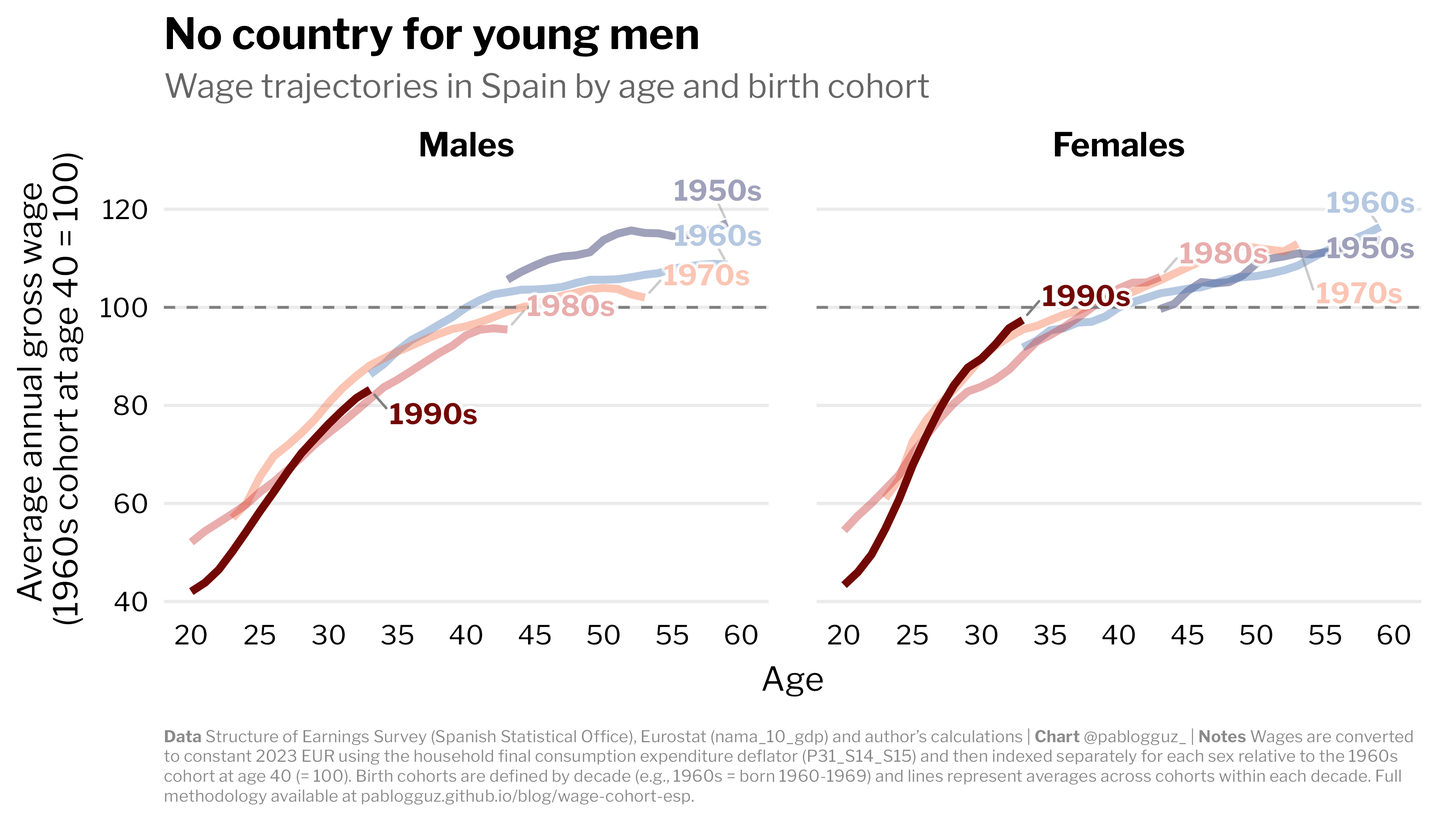
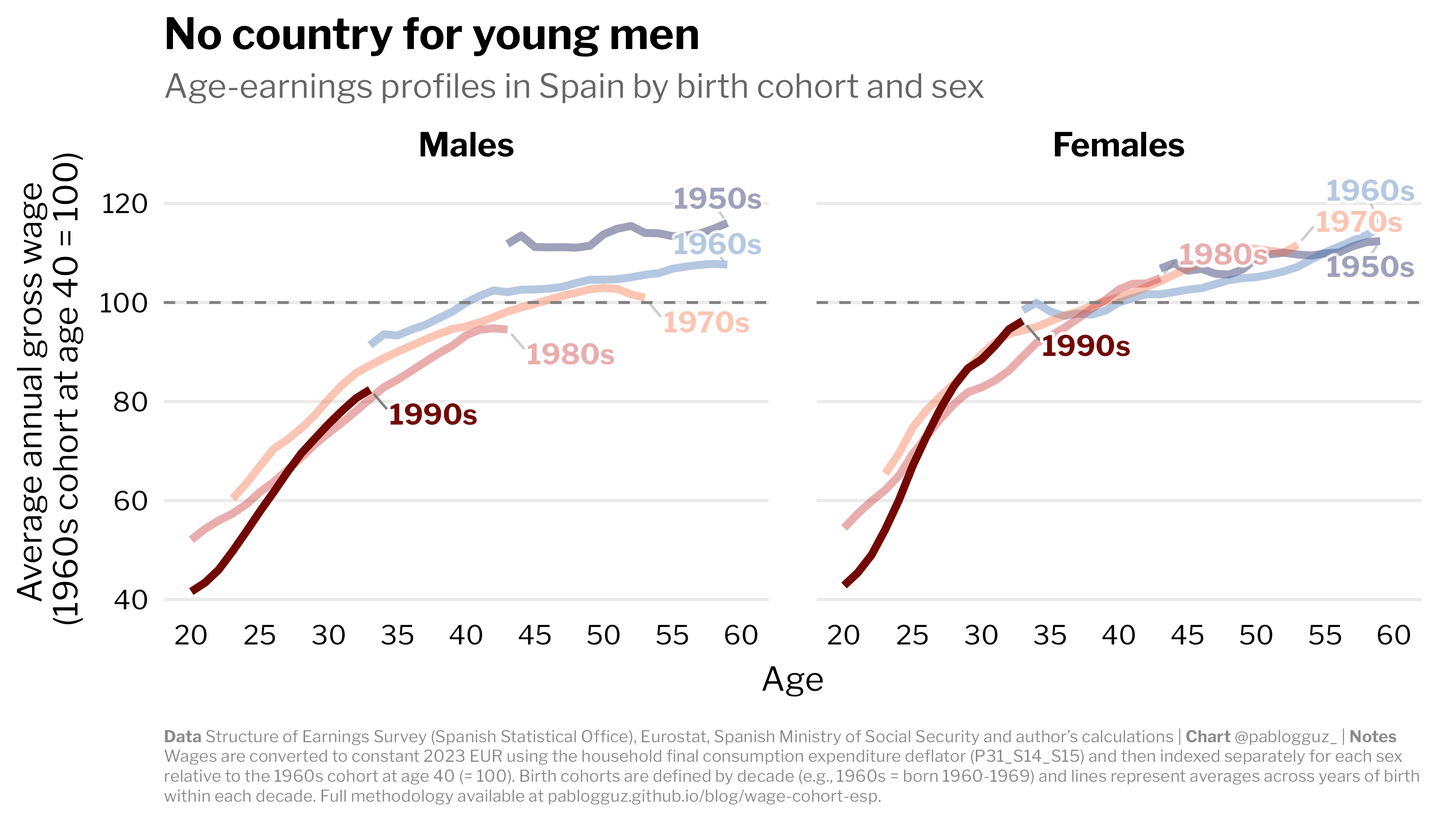
no country for young men

diff --git a/content/blog/wage-cohort-esp.md b/content/blog/wage-cohort-esp.md
@@ -1,7 +1,7 @@
 +++
 title = "No country for young men: age-earnings profiles by birth cohort and sex in Spain"
 date = 2025-10-09
-draft = true
+draft = false
 
 [taxonomies]
 tags = ["wages", "spain", "cohorts", "labour market"]
@@ -18,16 +18,16 @@ outdate_alert_days = 120
 display_tags = true
 truncate_summary = false
 featured = false
-cover_image = "https://pablogguz.github.io/img/nocountry.png"
-reading_time = 10
+cover_image = "https://pablogguz.github.io/img/nocountry_v2.png"
+reading_time = 8
 +++
 
-<img src="/img/nocountry.png" width="500"/>
+<img src="/img/nocountry_v2.png" width="500"/>
 <br>
 
 # Introduction
 
-Spain's younger generations are not enjoying higher wages than their parents did at the same age. In fact, **each successive male cohort since the 1960s has fared progressively worse**. Men born in the 1990s, now in their mid-30s, earn roughly 7% less in real terms than men born in the 1970s earned at comparable ages.
+Spain's younger generations are not enjoying higher wages than their parents did at the same age. In fact, **each successive male cohort since the 1960s appears to do progressively worse**: men born in the 1990s, now in their mid-30s, earn about 9% less in real terms than men born in the 1970s at comparable ages.
 
 **Women's wage trajectories tell a different story**: recent cohorts have achieved parity with earlier generations and appear on track to surpass them. While matching or slightly exceeding wage levels from decades ago is hardly cause for celebration, it stands in marked contrast to the persistent declines young men have experienced.
 
@@ -37,41 +37,41 @@ This post documents an attempt to construct age-earnings profiles by birth cohor
 
 The main analysis draws on the following datasets, all publicly available:
 
-**[Structure of Earnings Survey](https://www.ine.es/jaxiT3/Tabla.htm?t=28189&L=0)**: Estimates of average gross wages by age group and sex. My analysis includes the annual surveys from 2004-07 and 2008-23, as well as the quadrennial survey from 2002. Ages are reported in five-year bands (20-24, 25-29, ..., 55-59). These surveys are conducted by Spain's National Statistical Office (hereafter INE) and cover salaried employees in industry, construction, and services (typically NACE Rev. 2 sections B to S), excluding agriculture, fishing, domestic services, self-employed workers, and some Public Administration positions. My analysis includes the annual surveys from 2004-07 and 2008-23, as well as the quadrennial survey from 2002. Ages are reported in five-year bands (20-24, 25-29, ..., 55-59).
+**[Structure of Earnings Survey](https://www.ine.es/jaxiT3/Tabla.htm?t=28189&L=0)**: Estimates of average gross wages by age group and sex. My analysis includes the annual surveys from 2004-07 and 2008-23, as well as the quadrennial survey from 2002. Ages are reported in five-year bands (20-24, 25-29, ..., 55-59). These surveys are conducted by Spain's National Statistical Office (_INE_) and cover salaried employees in industry, construction, and services (typically NACE Rev. 2 sections B to S), excluding agriculture, domestic services, self-employed workers, and some public administration positions.
 
 **[Eurostat National Accounts (nama_10_gdp)](https://ec.europa.eu/eurostat/databrowser//product/view/NAMA_10_GDP)**: I use the household final consumption expenditure deflator (P31_S14_S15) to convert all wages to constant 2023 EUR.
 
 **[Labour Force Survey (EPA)](https://www.ine.es/dyngs/INEbase/operacion.htm?c=Estadistica_C&cid=1254736176918&menu=resultados&idp=1254735976595#_tabs-1254736195129)**: I use data on sectoral employment shares to account for some methodological changes in the Structure of Earnings Survey. More on this below.
 
-**[Eurostat Structural Business Statistics (sbs_na_ind_r2)](https://ec.europa.eu/eurostat/databrowser/view/sbs_sc_sca_r2/default/table?lang=en)**: I use data on employment by firm size to account for some methodological changes in the Structure of Earnings Survey. More on this below.
+**[_Estadística de Empresas Inscritas en la Seguridad Social_ (Spanish Ministry of Social Security)](https://www.mites.gob.es/es/estadisticas/mercado_trabajo/EMP/welcome.htm)**: I use data on employment counts by sector and firm size to account for some methodological changes in the Structure of Earnings Survey. More on this below.
 
 # Methodology
 
-Data on wages is made available for five-year age bands, so the first step is to expand these five-year averags into single-year estimates while preserving the original means within each band. One way to do this is through a **Lexis expansion**. 
+Data on wages is made available for five-year age bands, so the first step is to expand these five-year averages into single-year estimates while preserving the original means within each band. One way to do this is through a **Lexis expansion**. 
 
-## A lexis expansion with monotonic splines
+## A Lexis expansion with monotonic splines
 
 In demography, a **Lexis diagram** is a graphical tool that represents demographic data across two dimensions: age (on the vertical axis) and time (on the horizontal axis). Diagonal lines in this diagram represent birth cohorts (i.e., groups of people born in the same year) as they age over time.
 
-A **Lexis expansion** refers to the process of disaggregating data from coarser categories (like five-year age bands) into finer single-year units while maintaining consistency with the original aggregated data. The name comes from the fact that you're "expanding" the cells of a Lexis diagram from large blocks into smaller, more granular cells.
+A **Lexis expansion** refers to the process of disaggregating data from coarser categories (like five-year age bands) into finer single-year units while maintaining consistency with the original aggregated data. The name comes from the fact that you are "expanding" the cells of a Lexis diagram from large blocks into smaller, more granular cells.
 
 Specifically, for each calendar year $t$ and sex $s$, I proceed as follows:
 
-1. **Interpolate in log wages.** Take the eight five-year bands $b\in \\{ \text{20–24},\dots,\text{55–59} \\}$ and place them at their midpoints $m_b\in\\{22,27,\dots,57\\}$. Fit a monotone cubic Hermite spline to $\log \bar w_{y,b,s}$ over $m_b$, and predict $\tilde w_{y,a,s}$ for every integer age $a\in[20,59]$. This is a shape-preserving interpolator: where the observed mid-points are monotone, it prevents overshooting and spurious oscillations; where they are not monotone, it behaves like a constrained cubic Hermite. The reason for using a monotone Hermite spline instead of a regular cubic spline is that the latter can oscillate and overshoot band means between knots, while the former is explicitly designed to avoid those artifacts while still giving a smooth profile.
+1. **Interpolate in log wages.** I take the eight five-year bands $b\in \\{ \text{20–24},\dots,\text{55–59} \\}$ and place them at their midpoints $m_b\in\\{22,27,\dots,57\\}$. Then, I fit a [monotone cubic Hermite spline](https://en.wikipedia.org/wiki/Monotone_cubic_interpolation) to $\log \bar w_{t,b,s}$ over $m_b$, and predict $\tilde w_{t,a,s}$ for every integer age $a\in[20,59]$. This is a shape-preserving interpolator: where the observed mid-points are monotone, it prevents overshooting and spurious oscillations; where they are not monotone, it behaves like a constrained cubic Hermite. The reason for using a monotone Hermite spline instead of a regular cubic spline is that the latter can oscillate and overshoot band means between knots, while the former is explicitly designed to avoid those artifacts while still yielding a smooth profile.
 
 2. **Ratio-adjust within each band to preserve published means.** For each band $b$ with age set $A_b$ (e.g., $A_{\text{20–24}}={20,21...,24}$), compute
 
    $$
-   r_{y,b,s} = \frac{\bar w_{y,b,s}}{\frac{1}{|A_b|}\sum_{a\in A_b}\tilde w_{y,a,s}}.
+   r_{t,b,s} = \frac{\bar w_{t,b,s}}{\frac{1}{|A_b|}\sum_{a\in A_b}\tilde w_{t,a,s}}.
    $$
 
 Rescale ages inside the band:
    $$
-   \hat w_{y,a,s} = r_{y,b,s}\times \tilde w_{y,a,s}\quad\text{for } a\in A_b.
+   \hat w_{t,a,s} = r_{t,b,s}\times \tilde w_{t,a,s}\quad\text{for } a\in A_b.
    $$
    By construction,
    $$
-   \frac{1}{|A_b|}\sum_{a\in A_b}\hat w_{y,a,s} = \bar w_{y,b,s}
+   \frac{1}{|A_b|}\sum_{a\in A_b}\hat w_{t,a,s} = \bar w_{t,b,s}
    $$
    for every band $b$. This step “rakes” the interpolated curve so that the **band averages match the official INE means exactly**.
 
@@ -79,14 +79,14 @@ Simple as that. Or is it?
 
 ## Not so fast...
 
-When working with survey data spanning many years, one must be cautious about potential changes in the data collection process and survey design. Such changes can lead to structural breaks in the series and introduce artifacts that may lead to misleading conclusions if not properly addressed. 
+When working with survey data spanning many years, one must be cautious about potential changes in the data collection process and survey design. Such changes can lead to structural breaks in the series, making the data not comparable over time.
 
 The Structure of Earnings Surveys in Spain have undergone several methodological changes over the years:
 
-1. Surveys before 2008 **excluded the Public Administration sector** (NACE rev. 2 section O / NACE rev. 1 section L). This sector tends to have a higher proportion of older workers and has higher average wages than the restate sector. 
-2. Surveys before 2004 **did not include firms with fewer than 10 employees**, which tend to pay lower wages.
+1. Surveys before 2008 **excluded the public administration sector** (NACE Rev. 2 section O / NACE Rev. 1 section L). This sector tends to have a higher proportion of older workers and has higher average wages than the rest of the economy. Additionally, **post-2008 only partially cover administration**, including civil servants under the Social Security General Regime (_Régimen General_) but excluding those under special schemes such as MUFACE, ISFAS, and MUGEJU (_Clases Pasivas_). Since 2011, new civil servants are enrolled in the General Regime, so coverage has gradually increased over time. However, I could not find any readily available data on employment shares by sector and regime. For simplicity, and given that sensitivity tests suggest this has no impact on the results, the main analysis does not adjust for this partial coverage.[^1]
+2. The quadrennial 2002 survey **did not include firms with fewer than 10 employees**, which tend to pay lower wages.
 
-I address these issues as follows. I start by rescaling pre-2008 wages using an **age-specific scaling factor** that accounts for both the wage premium in Public Administration and its age-varying employment share:
+I address these issues as follows. I start by rescaling pre-2008 wages using an **age-specific scaling factor** that accounts for both the wage premium in public administration and its age-varying employment share:
 
 $$
 M_t^{(s)}(a) = 1 + s_{O,t}^{(s)}(a)\big(R_t^{(s)}-1\big)
@@ -94,7 +94,7 @@ $$
 
 where (by year $(t)$, sex $(s)$, and age $(a)$):
 
-* $R_t^{(s)} = W_{O,t}^{(s)} / W_{\text{rest},t}^{(s)}$ = **overall wage ratio** for Public Administration relative to the rest of sectors (averaged across all ages)
+* $R_t^{(s)} = W_{O,t}^{(s)} / W_{\text{rest},t}^{(s)}$ = **overall wage ratio** for public administration relative to the rest of sectors (averaged across all ages)
 * $s_{O,t}^{(s)}(a) = \dfrac{N_{O,t}^{(s)}(a)}{N_{O,t}^{(s)}(a) + N_{\text{rest},t}^{(s)}(a)}$ = **age-specific employment share of O** in B–S
 
 The age variation in the scaling factor arises entirely from differences in sectoral employment composition across ages, rather than from age-varying wage premia. This approach leverages detailed employment breakdowns by age, sex and sector available in the [Labour Force Survey](https://www.ine.es/jaxiT3/Tabla.htm?t=65986&L=0) (_EPA_) for 2008-2023, while using the overall wage ratio (which lacks the needed age-sex-sector disaggregation in the published data).
@@ -102,9 +102,9 @@ The age variation in the scaling factor arises entirely from differences in sect
 Since the adjustment must be applied "out-of-sample" for the pre-2008 period, the assumption is that the scaling factor is stable over time. <a href="#fig_shares">Figure 1</a> shows that this is indeed the case. 
 
 <figure id="fig_shares">
-  <figcaption>Figure 1: Scaling factors for Public Administration exclusion </figcaption>
+  <figcaption>Figure 1: Scaling factors for public administration exclusion </figcaption>
    <img src="/img/m_sector_by_age.png" loading="lazy" style="width: 100%; border: 0px none;">
-   <p class="figure-note">Source: Structure of Earnings Survey and Labour Force Survey (Spanish Statistical Office) and author's calculations. Note: The scaling factor $M^{(s)}(a) = 1 + s_O^{(s)}(a)(R^{(s)} - 1)$ combines the age-specific employment share of Public Administration with the overall wage premium for that sector. </p>
+   <p class="figure-note">Source: Structure of Earnings Survey and Labour Force Survey (Spanish Statistical Office) and author's calculations. Note: The scaling factor $M^{(s)}(a) = 1 + s_O^{(s)}(a)(R^{(s)} - 1)$ combines the age-specific employment share of public administration with the overall wage premium for that sector. </p>
 </figure>
 
 <br>
@@ -114,23 +114,23 @@ To avoid picking an arbitrary year, I average the obtained scaling factors over 
 Similarly, I **rescale pre-2004 wages to account for the exclusion of firms with fewer than 10 employees**. These micro-firms tend to pay lower wages than larger establishments, so pre-2004 surveys systematically overstate average wages. The scaling factor follows analogous logic:
 
 $$
-M^{\text{size},(s)} = 1 + s_{\text{micro}}^{(s)}\big(r^{(s)}-1\big)
+M_{t}^{\text{size},(s)} = 1 + s_{\text{micro},t}^{(s)}\big(r^{(s)}-1\big)
 $$
 
 where (by sex $(s)$):
 
-* $r^{(s)} = W_{\text{micro}}^{(s)} / W_{10+}^{(s)}$ = wage ratio for micro-firms (0-9 employees) relative to firms with 10+ employees
-* $s_{\text{micro}}^{(s)}$ = sex-specific employment share of micro-firms across covered sectors
+* $r^{(s)} = W_{\text{micro}}^{(s)} / W_{10+}^{(s)}$ = wage ratio for micro-firms (1-9 employees) relative to firms with 10+ employees
+* $s_{\text{micro},t}^{(s)}$ = sex-specific employment share of micro-firms across covered sectors
 
-Computing these components requires combining multiple data sources. For the employment share $s_{\text{micro}}^{(s)}$, I proceed in two steps. First, I obtain sector-specific employment shares by firm size from Eurostat's [Structural Business Statistics](https://ec.europa.eu/eurostat/databrowser/view/sbs_sc_sca_r2/default/table?lang=en). The SBS provides annual counts of employment by firm size categories for 12 NACE Rev. 2 sectors (B-N, excluding K, O-S), which I use to compute sector-year specific micro-firm shares $s_{\text{micro},k,t}$ for each sector $k$.
+Computing these components requires combining multiple data sources. For the employment share $s_{\text{micro}}^{(s)}$, I proceed in two steps. First, I obtain sector-specific employment shares by firm size from the Spanish Ministry of Social Security ([_Estadística de Empresas Inscritas en la Seguridad Social_](https://www.mites.gob.es/es/estadisticas/mercado_trabajo/EMP/welcome.htm)). This dataset provides annual counts of employment by firm size categories for all NACE Rev. 2 sectors covered in the 2008-23 Structure of Earnings Survey (except public administration), which I use to compute sector-year specific micro-firm shares $s_{\text{micro},k,t}$ for each sector $k$. 
 
-Second, **I weight these sector-specific shares by sex-specific sector employment from the Labour Force Survey**, accounting for differences in the sectoral distribution of male and female employment:
+Second, **I weight these micro-firm shares by sex-specific sectoral employment shares** from the Labour Force Survey:
 
 $$
-s_{\text{micro}}^{(s)}(t) = \sum_{k} \omega_{k,t}^{(s)} \cdot s_{\text{micro}, k, t}
+s_{\text{micro},t}^{(s)} = \sum_{k} \omega_{k,t}^{(s)} \cdot s_{\text{micro}, k, t}
 $$
 
-where $\omega_{k,t}^{(s)}$ is the share of sex $s$'s employment in sector $k$ at year $t$, computed only over the 12 sectors available in the SBS. I average these weighted shares over all years for which all 12 sectors are available (2010 - 2020, excluding 2011).
+where $\omega_{k,t}^{(s)}$ is the share of sex $s$'s employment in sector $k$ at year $t$, computed only over the sectors B-S covered by the Structure of Earnings Survey. 
 
 For the wage ratio $r^{(s)}$, **I rely on published tabulations from the 2006 Structure of Earnings Survey** (see <a href="#grafico38">_Gráfico 38_</a> [here](https://www.ine.es/daco/daco42/salarial/prinre06.pdf)), which provides average wages by firm size and sex. The ratio is derived by solving:
 
@@ -140,19 +140,25 @@ $$
 
 for $r^{(s)} = W_{\text{micro}}^{(s)} / W_{10+}^{(s)}$.
 
-The resulting scaling factors are shown in <a href="#table_firmsize">Table 2</a>. These adjustments are more substantial than the Public Administration correction, reflecting the relatively large share of employment in small firms and their lower average wages. 
+Since the firm size adjustment must be applied to the 2002 survey, the key assumption is again that this scaling factor remains stable over time. The resulting scaling factors are shown in <a href="#fig_shares_size">Figure 2</a>, which displays the evolution of $M_{t}^{\text{size},(s)}$ over time by sex, and confirms its stability. These adjustments are more substantial than the public administration correction, reflecting the relatively large share of employment in small firms and their lower average wages. For the analysis, I average the obtained scaling factors over the entire 2013-2023 period for each sex.
 
-<div id="table_firmsize">
+<figure id="fig_shares_size">
+  <figcaption>Figure 2: Scaling factors for micro-firms exclusion </figcaption>
+   <img src="/img/m_size_by_sex.png" loading="lazy" style="width: 100%; border: 0px none;">
+   <p class="figure-note">Source: Spanish Ministry of Social Security (Estadística de Empresas Inscritas en la Seguridad Social), Spanish Statistical Office (Labour Force Survey and Structure of Earnings Survey) and author's calculations. Note: The scaling factor $M^{\text{size},(s)} = 1 + s_{\text{micro}}^{(s)}(r^{(s)} - 1)$ combines the sex-specific employment share of micro-firms (1-9 employees) with the wage penalty these firms pay relative to larger establishments.</p>
+</figure>
+
+<!-- <div id="table_firmsize">
 <figcaption>Table 2: Scaling factors for micro-firms exclusion</figcaption>
 
 | Sex | Micro-firm share ($s_{\text{micro}}$) | Wage ratio ($r$) | Scaling factor ($M^{\text{size}}$) |
 |-----|---------------------------------------|------------------|-------------------------------------|
-| Both sexes | 38.0% | 0.660 | 0.871 |
-| Males | 37.2% | 0.653 | 0.871 |
-| Females | 39.4% | 0.655 | 0.864 |
+| Both sexes | 21.8% | 0.698 | 0.934 |
+| Males | 22.6% | 0.696 | 0.931 |
+| Females | 20.8% | 0.698 | 0.937 |
 
-<p class="figure-note">Source: Eurostat Structural Business Statistics, Labour Force Survey, and Structure of Earnings Survey (Spanish Statistical Office) and author's calculations. Note: Micro-firm shares are employment-weighted averages across the 12 sectors with available firm size data in Eurostat SBS (B-N, excluding K, O-S) for 2018-2023, using sex-specific sectoral employment shares from the Labour Force Survey. Wage ratios are derived from the 2006 Structure of Earnings Survey.</p>
-</div>
+<p class="figure-note">Source: Spanish Ministry of Social Security (Estadística de Empresas Inscritas en la Seguridad Social), Spanish Statistical Office (Labour Force Survey and Structure of Earnings Survey) and author's calculations.</p>
+</div> -->
 
 With these two adjustments in place, we are ready to proceed with the Lexis expansion as described above. 
 
@@ -166,38 +172,41 @@ I group individual cohorts into decades (1950s, 1960s, etc.). For each cohort de
 
 $$\bar{w}(a, d) = \frac{1}{|C_d|} \sum_{c \in C_d} w^{Lexis}(c, a)$$
 
-To make the chart easier to read, I index everything relative to the 1960s cohort at age 40 separately by sex. That is, an index of 80 at age 30 means that the cohort earns 80% of what the 1960s cohort earned at age 40.
+I index everything relative to the 1960s cohort at age 40 separately by sex. That is, an index of 80 at age 30 means that the cohort earns 80% of what the 1960s cohort of the same sex earned at age 40.
 
 ## Results and discussion
 
-The results are shown in <a href="#fig2">Figure 2</a>. **For males, the profile suggest that each successive cohort has experienced weaker wage growth throughout their working lives**. By age 35, men born in the 1980s earned roughly 6% less in real terms than the 1960s cohort did at the same age. The 1990s cohort has failed to catch up and seems to be on a similar trajectory than those born in the 1980s, with earnings about 7% lower than what the 1970s cohort earned at comparable ages.
+The results are shown in <a href="#fig3">Figure 3</a>. **For males, the profile suggests that each successive cohort has experienced weaker wage growth throughout their working lives**. By age 35, men born in the 1980s earned almost 10% less in real terms than the 1960s cohort did at the same age. The 1990s cohort has failed to catch up and seems to be on a similar trajectory to those born in the 1980s, with earnings about 9% lower than what the 1970s cohort earned at comparable ages.
 
 **For females, the picture is different but hardly encouraging**. Recent cohorts show signs of convergence, with women born in the 1990s reaching parity with the 1970s cohort by their late-20s and outperforming the 1980s cohort by their early-30s. In this context, however, "convergence" means matching or slightly exceeding wage levels from decades ago. I will let the reader decide whether this warrants celebration.
 
-<figure id="fig2">
-  <figcaption>Figure 2 </figcaption>
-  <img src="/img/cohort_wage_trajectories_by_sex_indexed.png" loading="lazy" style="width: 100%; border: 0px none;"></iframe>
-</figure>
-
-As a result, **the gender wage gap has narrowed substantially across cohorts**. <a href="#fig3">Figure 3</a> shows the female-to-male wage ratio by cohort and age. Women born in the 1990s earn 88 cents for every euro their male counterparts make at ages 25 and above, up from just 76 cents for the 1960s cohort. That amounts to a relative reduction of the gender wage gap of 50%. 
-
 <figure id="fig3">
   <figcaption>Figure 3 </figcaption>
-  <img src="/img/gender_wage_gap_by_cohort.png" loading="lazy" style="width: 100%; border: 0px none;"></iframe>
+  <img src="/img/cohort_wage_trajectories_by_sex_indexed.png" loading="lazy" style="width: 100%; border: 0px none;"></img>
 </figure>
 
+As a result, **the gender wage gap has narrowed substantially across cohorts**. <a href="#fig4">Figure 4</a> shows the female-to-male wage ratio by cohort and age. Women born in the 1990s earn 88 cents for every euro their male counterparts make at ages 25 and above, up from 83 cents for the 1970s cohort at similar ages. In other words, the gender wage gap has shrunk by roughly 30% in two decades.
 
-Discussing the root causes of this divergence are beyond the scope of this post, but it would be an interesting avenue for future work. I speculate on a couple of mechanisms below.
+<figure id="fig4">
+  <figcaption>Figure 4 </figcaption>
+  <img src="/img/gender_wage_gap_by_cohort.png" loading="lazy" style="width: 100%; border: 0px none;"></img>
+</figure>
 
-First, one could think about **structural change**. The 2008 financial crisis and subsequent Eurozone crisis obliterated sectors of the economy that were dominated by male workers, particularly in construction and manufacturing (see [here](https://www.journals.uchicago.edu/doi/full/10.1086/718660) and [here](https://pmc.ncbi.nlm.nih.gov/articles/PMC8488327/?utm_source=chatgpt.com)). These sectors never fully recovered, and if labour supply was absorbed by low-skill jobs in service sectors like retail and hospitality, this could have contributed to the observed wage stagnation for younger cohorts. Descriptively, one indeed sees that manufacturing employment has been in steady decline since the early 1990s, while construction employment collapsed after 2008 and has only partially recovered since then (see <a href="#fig2">Figure 2</a>). Employment in accommodation and food services has increased in relative terms, but there does not seem to be any sex-specific pattern. A [Rodrik-style within/between decomposition](https://www.sciencedirect.com/science/article/abs/pii/S0305750X13002246) of wage growth by sex could tell us how much of the cohort gap comes from within-sector wage changes vs. shifts across sectors.
+Discussing the root causes of this divergence is beyond the scope of this post, but it would be an interesting avenue for future work. I speculate on a couple of mechanisms below.
 
-<figure id="fig2">
-  <figcaption>Figure 2 </figcaption>
+First, one could think about **structural change**. The 2008 financial crisis and subsequent Eurozone crisis disproportionately affected sectors of the economy that were dominated by male workers, particularly in construction and manufacturing (see [here](https://www.journals.uchicago.edu/doi/full/10.1086/718660) and [here](https://pmc.ncbi.nlm.nih.gov/articles/PMC8488327/?utm_source=chatgpt.com)). These sectors never fully recovered, and if labour supply was absorbed by low-skill jobs in service sectors like retail and hospitality, this could have contributed to the observed wage stagnation for younger cohorts. Descriptively, one indeed sees that manufacturing employment has been in steady decline since the early 1990s, while construction employment collapsed after 2008 and has only partially recovered since then (see <a href="#fig5">Figure 5</a>). Employment in accommodation and food services has increased in relative terms, but there does not seem to be any sex-specific pattern. A [Rodrik-style within/between decomposition](https://www.sciencedirect.com/science/article/abs/pii/S0305750X13002246) of wage growth by sex could tell us how much of the cohort gap comes from within-sector wage changes vs. shifts across sectors.
+
+<figure id="fig5">
+  <figcaption>Figure 5 </figcaption>
   <img src="/img/employment_shares_by_sector.png" loading="lazy" style="width: 100%; border: 0px none;">
 </figure>
 
-Second, the analysis in this post focuses on average wages, but **cohort gaps might reflect differences in hours worked and job intensity**. In Spain, output per hour _has_ increased over the last decades, but these improvements haven't translated into higher average wages – instead, they've been absorbed by reductions in hours worked (see [here](https://cincodias.elpais.com/economia/2025-06-23/el-enigma-de-la-productividad-espanola-y-si-la-estabamos-midiendo-mal.html#?prm=copy_link)). The gender divergence could also reflect a larger reduction in male hours among younger cohorts. In principle, this whole exercise could be replicated with hourly wages.
+Second, the analysis in this post focuses on average wages, but **cohort gaps might reflect differences in hours worked and job intensity**. In Spain, output per hour _has_ increased over the last decades, but these improvements have not translated into higher average wages – instead, they have been absorbed by reductions in hours worked (see [here](https://cincodias.elpais.com/economia/2025-06-23/el-enigma-de-la-productividad-espanola-y-si-la-estabamos-midiendo-mal.html#?prm=copy_link)). The gender divergence could also reflect a disproportionate reduction in male hours among younger cohorts.
 
-Whatever the mechanisms, these numbers tell a grim story. The absence or even reversal of improvements in labour market outcomes across generations represents the collapse of an implicit contract that held for decades: work hard and society will reward you with opportunities for upward mobility. That promise seems to be evaporating. A broken labour market, housing costs that previous generations never faced relative to their income, and the fiscal burden of an ageing population have created a perfect storm. Spain's younger generations have inherited an economy that has turned against them.
+Whatever the mechanisms, these numbers tell a grim story. The absence or even reversal of improvements in labour market outcomes across generations represents the collapse of an implicit contract that held for decades: work hard and society will reward you with opportunities for upward mobility. That promise seems to be evaporating. A dysfunctional labour market, housing costs that previous generations never faced relative to their income, and the fiscal burden of an ageing population have created a perfect storm. Spain's younger generations have inherited an economy that has turned against them.
 
 Contemporary Spain is no country for young men. And increasingly, no country for the young.
+
+---------------------------------------
+
+[^1]: I tested the sensitivity of the results by including an adjustment for the partial coverage of public administration when computing the sectoral employment shares, assuming a range of plausible coverage rates of the General Regime. The results are virtually unchanged.
